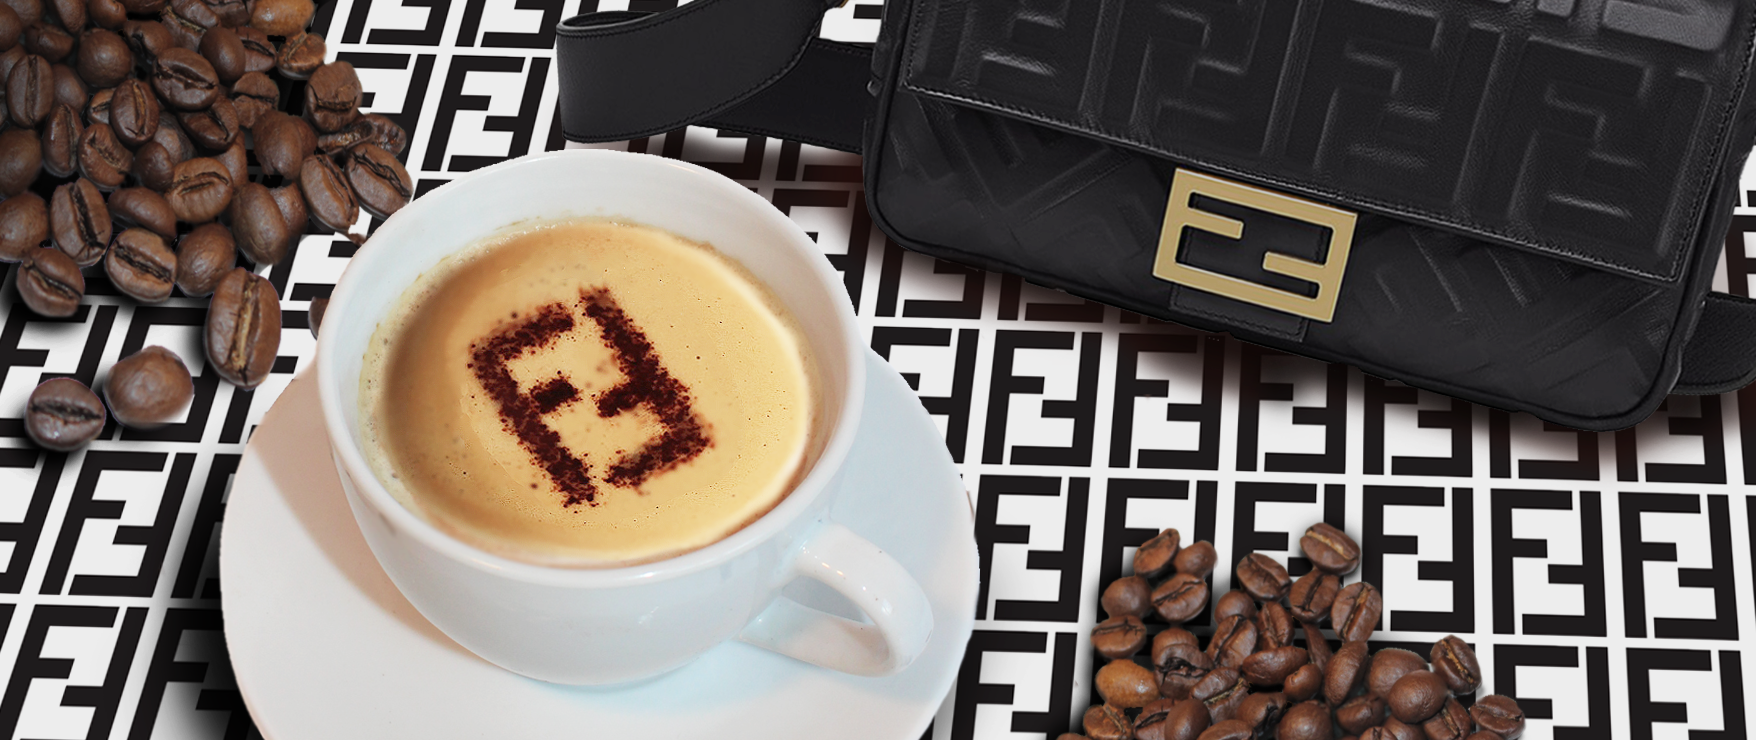
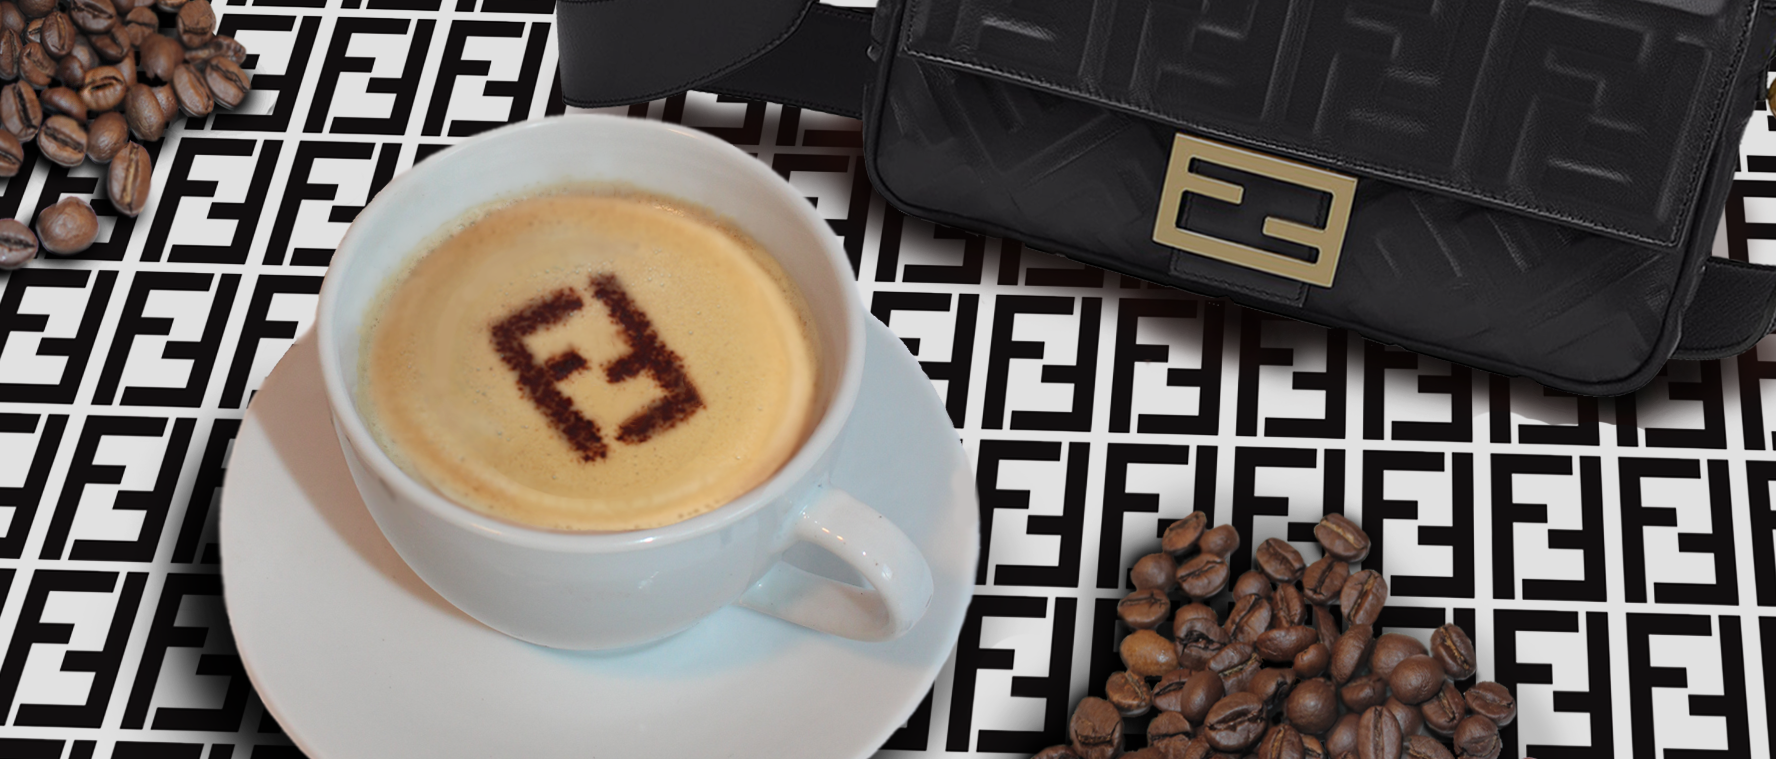
change

diff --git a/Seite/style_tablet.css b/Seite/style_tablet.css
@@ -14,7 +14,7 @@
         position: fixed;
         display:inline-flex;
         z-index: 100;
-        height: 50px;
+        height: 40px;
         width: 97%;
         margin-left: 1.5%;
         margin-top: -20px;
@@ -32,7 +32,7 @@
         height: 35px;
         width: 97%;
         margin-left: 1.5%;
-        margin-top: 27px;
+        margin-top: 20px;
         background-color: #A59381;
         display: inline-flex;
         cursor: pointer;
@@ -152,12 +152,16 @@
         margin-top: 20px;
     }
 
+    #heroshot {
+        padding-top: 30px;
+    }
+
     #arrow-back-1 {
         height: 4vw;
         top: 6px;
         position: relative;
     }
-    
+
     #slash-1 {
         height: 4vw;
         top: 6px;

diff --git a/Seite/index.html b/Seite/index.html
@@ -53,7 +53,7 @@
 
     <main>
         <div id="heroshot">
-            <div id="hero-img"><img src="Bilder/heroshot2.png" alt="Heroshot"></div>
+            <div id="hero-img"><img src="Bilder/heroshot1.png" alt="Heroshot"></div>
             <div class="introduction">
                 <div class="white-topper"></div>
                 <p id="title">FENDI CAFFÈ</p>
